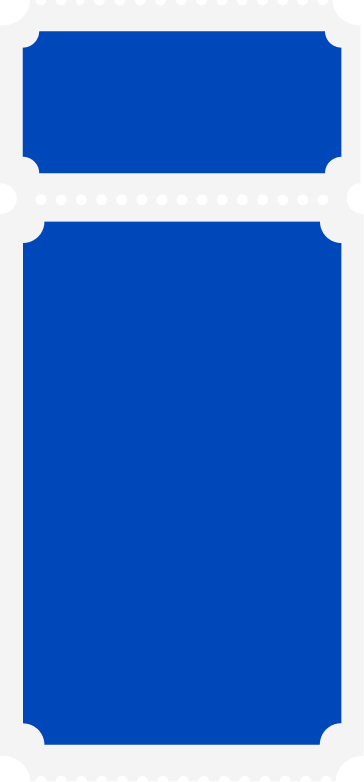
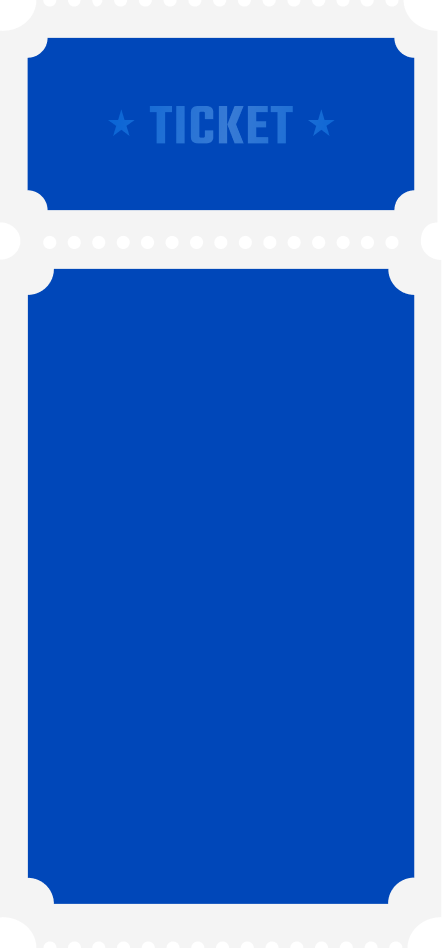
luckydraw - Update UI - v2

diff --git a/src/components/screens/Nao/Luckydraw/LuckyPage.js b/src/components/screens/Nao/Luckydraw/LuckyPage.js
@@ -1,15 +1,18 @@
 import React, { } from 'react';
-import styled from 'styled-components';
+import styled, { keyframes } from 'styled-components';
 import classnames from 'classnames';
 import Draggable from 'react-draggable';
 import DragTicket from 'components/screens/Nao/Luckydraw/DragTicket';
 import { useTranslation } from 'next-i18next';
-import { getS3Url } from 'redux/actions/utils';
+import { getS3Url, emitWebViewEvent } from 'redux/actions/utils';
+import { ChevronUp } from 'react-feather';
+import Skeletor from 'components/common/Skeletor';
 
-const LuckyPage = ({ tickets, onOpen, width }) => {
+const LuckyPage = ({ tickets, onOpen, width, loading }) => {
     const { t } = useTranslation();
     const xs = width <= 360;
     const minWidth = xs ? 177 : 253;
+    const zeroPad = (num, places) => String(num).padStart(places, '0')
 
     return (
         <>
@@ -19,30 +22,32 @@ const LuckyPage = ({ tickets, onOpen, width }) => {
                     { 'text-sm leading-[22px] pb-2': xs },
                     { 'leading-8 text-lg pb-4': !xs }
                 )}>
-                    {t(`nao:luckydraw:${tickets ? '' : 'not_'}ticket_title`)}
+                    {loading ? <Skeletor width={200} height={20} /> :
+                        t(`nao:luckydraw:${tickets ? '' : 'not_'}ticket_title`, { value: zeroPad(tickets.length, 2) })}
                 </div>
                 <div className={classnames(
                     'font-medium ',
                     { 'text-xs pb-8 px-8': xs },
                     { 'leading-7 pb-12 px-5': !xs },
-                    { '!pb-6': tickets }
+                    { '!pb-[4.75rem]': tickets },
                 )}>
-                    {t(`nao:luckydraw:ticket_des`, { vndc: tickets ? '100,000,000' : '10,000,000 ', nao: tickets ? '100' : '10' })}
+                    {loading ? <Skeletor width={250} height={20} /> :
+                        !tickets ? t(`nao:luckydraw:ticket_des`, { vndc: '10,000,000', nao: '10' }) : t('nao:luckydraw:pull_ticket')}
                 </div>
-                {tickets && <div onClick={() => onOpen(tickets[tickets.length - 1])} className="bg-nao-blue2 font-semibold leading-6 py-3 rounded-xl cursor-pointer">
-                    {tickets ? t('nao:luckydraw:open_now') : t('nao:luckydraw:trade')}
-                </div>
+                {!tickets && !loading &&
+                    <div onClick={() => emitWebViewEvent('back')}
+                        className="mb-9 bg-nao-blue2 font-semibold leading-6 py-3 rounded-xl cursor-pointer">
+                        {t('common:close')}
+                    </div>
                 }
-                {tickets && <div className="text-[0.625rem] opacity-[0.65] leading-7 pt-2">
-                    {t('nao:luckydraw:pull_ticket')}
-                </div>}
             </div>
-            <BgCenter className={`select-none top-1/2  ${xs ? 'min-w-[177px]' : 'min-w-[253px]'}`}>
+            {/* {tickets && <ArrowEffect />} */}
+            <BgCenter className={`select-none ${tickets ? 'top-[55%]' : 'top-1/2'}  ${xs ? 'min-w-[177px]' : 'min-w-[253px]'}`}>
                 <div className={`bg-[#3C8BFD] w-full rounded-[50%] ${xs ? 'h-[165px] ' : 'h-[235px] '}`}></div>
                 {tickets &&
                     tickets.map((ticket, idx) => (
                         <BgCenter key={idx} className={`${xs ? 'min-w-[127px]' : 'min-w-[181px]'} top-[25%]`}>
-                            <DragTicket ticket={ticket} onOpen={onOpen} xs={xs} />
+                            <DragTicket last={tickets.length - 1 === idx} ticket={ticket} onOpen={onOpen} xs={xs} />
                         </BgCenter>
                     ))
                 }
@@ -50,13 +55,29 @@ const LuckyPage = ({ tickets, onOpen, width }) => {
                     <img src={getS3Url("/images/nao/luckydraw/bg_cover.png")} />
                 </div>
             </BgCenter>
-            <div className={`bottom-0 absolute left-0 h-[45%] w-full`}>
+            <div className={`${tickets ? 'h-[30%]' : 'h-[45%]'} bottom-0 absolute left-0  w-full`}>
                 <img src={getS3Url('/images/nao/luckydraw/bg_footer.png')} className='w-full' />
             </div>
         </>
     );
 };
 
+
+const ArrowEffect = () => {
+    return (
+        <div className='absolute top-[10%] left-1/2 -translate-x-1/2'>
+            <div className='arrow-1 bounceAlpha-1 bounceAlpha'>
+                <ChevronUp size={30} />
+            </div>
+            <div className='arrow-2 bounceAlpha-2 bounceAlpha -mt-5'>
+                <ChevronUp size={30} />
+            </div>
+            <div className='arrow-2 bounceAlpha-3 bounceAlpha -mt-5'>
+                <ChevronUp size={30} />
+            </div>
+        </div>
+    )
+}
 
 const BgCenter = styled.div.attrs({
     className: 'absolute'

diff --git a/src/pages/luckydraw.js b/src/pages/luckydraw.js
@@ -11,15 +11,19 @@ import fetchApi from 'utils/fetch-api';
 import { ApiStatus } from 'redux/actions/const';
 import { emitWebViewEvent, getS3Url } from 'redux/actions/utils';
 import { ArrowLeft } from 'react-feather';
+import { Tooltip } from 'components/screens/Nao/NaoStyle'
+import { useTranslation } from 'next-i18next'
 
 const Luckydraw = () => {
+    const { t } = useTranslation();
     const [tickets, setTickets] = useState([]);
     const { width } = useWindowSize();
     const [open, setOpen] = useState(false);
     const ticket = useRef(null)
+    const [loading, setLoading] = useState(true);
 
     useEffect(() => {
-        // getTickets();
+        getTickets();
     }, [])
 
     const onClaim = async (code) => {
@@ -48,6 +52,7 @@ const Luckydraw = () => {
         } catch (e) {
             console.log(e)
         } finally {
+            setLoading(false);
         }
     }
 
@@ -77,18 +82,21 @@ const Luckydraw = () => {
         <LayoutNaoToken isHeader={false}>
             <Background>
                 <BackgroundImage width={width} className="text-center">
-                    <div className="flex items-center justify-between relative top-0">
-                        {!ticket.current ? <ArrowLeft size={24} onClick={() => emitWebViewEvent('back')} />
-                            : <>
-                                <img src={getS3Url("/images/nao/luckydraw/ic_onus.png")} width="74" height="20" alt="" />
-                                <img src={getS3Url("/images/nao/luckydraw/ic_nami.png")} width="66" height="36" alt="" />
-                            </>
-                        }
+                    {_tickets ? <div>
+                        <Tooltip arrowColor={'transparent'} className="!mt-4" place="left" id="tooltip-luckydraw" />
+                        <div className="flex items-center justify-between relative top-0">
+                            <ArrowLeft size={24} onClick={() => emitWebViewEvent('back')} />
+                            <div data-tip={t('nao:luckydraw:ticket_des', { vndc: '100,000,000', nao: '100' })} data-for="tooltip-luckydraw">
+                                <img src={getS3Url("/images/nao/luckydraw/ic_helper.png")} width="24" height="24" alt="" />
+                            </div>
+                        </div>
                     </div>
+                        : <div />
+                    }
                     {!open ?
-                        <LuckyPage tickets={_tickets} width={width} onOpen={onOpen} />
+                        <LuckyPage loading={loading} tickets={_tickets} width={width} onOpen={onOpen} />
                         :
-                        <LuckyTicket ticket={ticket.current} open={open} width={width} onClose={onClose} />
+                        <LuckyTicket tickets={_tickets} ticket={ticket.current} open={open} width={width} onClose={onClose} />
                     }
                 </BackgroundImage>
             </Background>
@@ -107,7 +115,7 @@ const Background = styled.div.attrs({
 const BackgroundImage = styled.div.attrs(({ width }) => ({
     className: classnames(
         'min-w-full h-full flex flex-col justify-between overflow-hidden relative ',
-        { 'px-4 pt-9 pb-6': width > 360 },
+        { 'px-4 py-6': width > 360 },
         { 'p-4': width <= 360 },
     )
 }))`

diff --git a/src/components/screens/Nao/Luckydraw/LuckyTicket.js b/src/components/screens/Nao/Luckydraw/LuckyTicket.js
@@ -4,7 +4,7 @@ import classnames from 'classnames';
 import { useTranslation } from 'next-i18next';
 import { formatTime, getS3Url } from 'redux/actions/utils';
 
-const LuckyTicket = ({ ticket, onClose, width }) => {
+const LuckyTicket = ({ ticket, onClose, width, tickets }) => {
     const xs = width <= 360;
     const { t } = useTranslation();
     const [hidden, setHidden] = useState(true);
@@ -21,26 +21,28 @@ const LuckyTicket = ({ ticket, onClose, width }) => {
         <>
             <Div>
                 <BgCenter className={`top-1/2 ${xs ? 'min-w-[183px]' : 'min-w-[221px]'}`}>
-                    <TextTicket xs={xs} className="top-[10%] text-[0.625rem] font-medium opacity-[0.65]">
-                        <div className="leading-4">ID: #{ticket?.reward?.ticket_code}</div>
-                        <div className="leading-4">{t('common:Thời gian')}: {formatTime(ticket?.reward?.time, 'yyyy-MM-dd HH:mm')}</div>
-                    </TextTicket>
-                    <TextTicket className="top-[33%] text-lg font-medium px-5 flex flex-col items-center">
+                    <TextTicket className="top-[33%] text-lg font-semibold px-5 flex flex-col items-center">
                         {t(`nao:luckydraw:${isGift ? 'congrat_first' : 'goodluck'}`)}
-                        {isGift && <div className="flex items-center space-x-2 pt-3">
-                            <TextShadow className="text-[2.625rem] leading-[3.125rem] font-semibold">{ticket?.reward?.value}</TextShadow>
+                        {isGift && <div className="flex items-center space-x-2 pt-1">
+                            <TextShadow className="text-[1.75rem] leading-9 font-semibold">{ticket?.reward?.value}</TextShadow>
                             <BgIcon>
                                 <img src={getS3Url('/images/nao/ic_nao.png')} width="20" height="20" alt="" />
                             </BgIcon>
                         </div>}
                     </TextTicket>
+                    <TextTicket xs={xs} className="top-[85%] text-[0.625rem] font-medium opacity-[0.65]">
+                        <div className="leading-4">ID: #{ticket?.reward?.ticket_code}</div>
+                        <div className="leading-4">{t('common:Thời gian')}: {formatTime(ticket?.reward?.time, 'yyyy-MM-dd HH:mm')}</div>
+                    </TextTicket>
                     <img src={getS3Url(`/images/nao/luckydraw/${isGift ? 'ic_gift' : 'ic_open_ticket'}.png`)} width={221} height={474} />
                 </BgCenter>
             </Div>
-            {hidden ? <div className="h-[48px]" />
+            {hidden ?
+                <div className="min-h-[24px]" />
                 :
-                <div onClick={() => onClose(ticket)} className="bg-nao-blue2 font-semibold leading-6 py-3 rounded-xl cursor-pointer">
-                    {isGift ? t('nao:luckydraw:get_now') : t('common:close')}
+                <div onClick={() => onClose(ticket)}
+                    className="bg-nao-blue2 font-semibold leading-6 py-3 rounded-xl cursor-pointer">
+                    {tickets.length > 1 ? t('nao:luckydraw:continue') : t('common:close')}
                 </div>}
         </>
     );

diff --git a/src/components/screens/Nao/Luckydraw/DragTicket.js b/src/components/screens/Nao/Luckydraw/DragTicket.js
@@ -7,7 +7,7 @@ import { TextTicket } from 'components/screens/Nao/NaoStyle';
 import { formatTime, getS3Url } from 'redux/actions/utils';
 import { useTranslation } from 'next-i18next';
 
-const DragTicket = ({ ticket, onOpen, xs }) => {
+const DragTicket = ({ ticket, onOpen, xs, last, index }) => {
     const [position, setPosition] = useState({ x: 0, y: 0 });
     const { t } = useTranslation();
 
@@ -22,6 +22,7 @@ const DragTicket = ({ ticket, onOpen, xs }) => {
         }
     }
 
+
     return (
         <Draggable
             axis="y"
@@ -32,11 +33,9 @@ const DragTicket = ({ ticket, onOpen, xs }) => {
         >
 
             <Ticket>
-                <TextTicket xs={xs} className="top-[8%]">
-                    <div className="leading-4">ID: #{ticket?.reward?.ticket_code}</div>
-                    <div className="leading-4">{t('common:Thời gian')}: {formatTime(ticket?.reward?.time, 'yyyy-MM-dd HH:mm')}</div>
-                </TextTicket>
-                <img src={getS3Url("/images/nao/luckydraw/ic_ticket.png")} width={181} height={390} />
+                {/* <div className={`${!last ? 'rotate-[-10deg]' : ''}`}> */}
+                    <img src={getS3Url("/images/nao/luckydraw/ic_ticket.png")} width={181} height={390} />
+                {/* </div> */}
             </Ticket>
         </Draggable>
     );

diff --git a/src/styles/app.scss b/src/styles/app.scss
@@ -736,3 +736,39 @@ input[type='number'] {
 .animation{
     transition: transform 0.9s
 }
+
+.bounceAlpha {
+    animation-name: bounceAlpha;
+    animation-duration:1.4s;
+    animation-iteration-count:infinite;
+    animation-timing-function:linear;
+}
+
+.bounceAlpha-1 {
+    animation-name: bounceAlpha;
+    animation-duration:1.4s;
+    animation-iteration-count:infinite;
+    animation-timing-function:linear;
+}
+.bounceAlpha-2 {
+    animation-name: bounceAlpha;
+    animation-duration:1.4s;
+    animation-delay:0.2s;
+    animation-iteration-count:infinite;
+    animation-timing-function:linear;
+}
+
+.bounceAlpha-3 {
+    animation-name: bounceAlpha;
+    animation-duration:1.4s;
+    animation-delay:0.4s;
+    animation-iteration-count:infinite;
+    animation-timing-function:linear;
+}
+
+@keyframes bounceAlpha {
+    0% {opacity: 1; transform: translateY(0) scale(1);}
+    25%{opacity: 0; transform:translateY(-10px) scale(0.9);}
+    26%{opacity: 0; transform:translateY(10px) scale(0.9);}
+    55% {opacity: 1; transform: translateY(0px) scale(1);}
+  }
